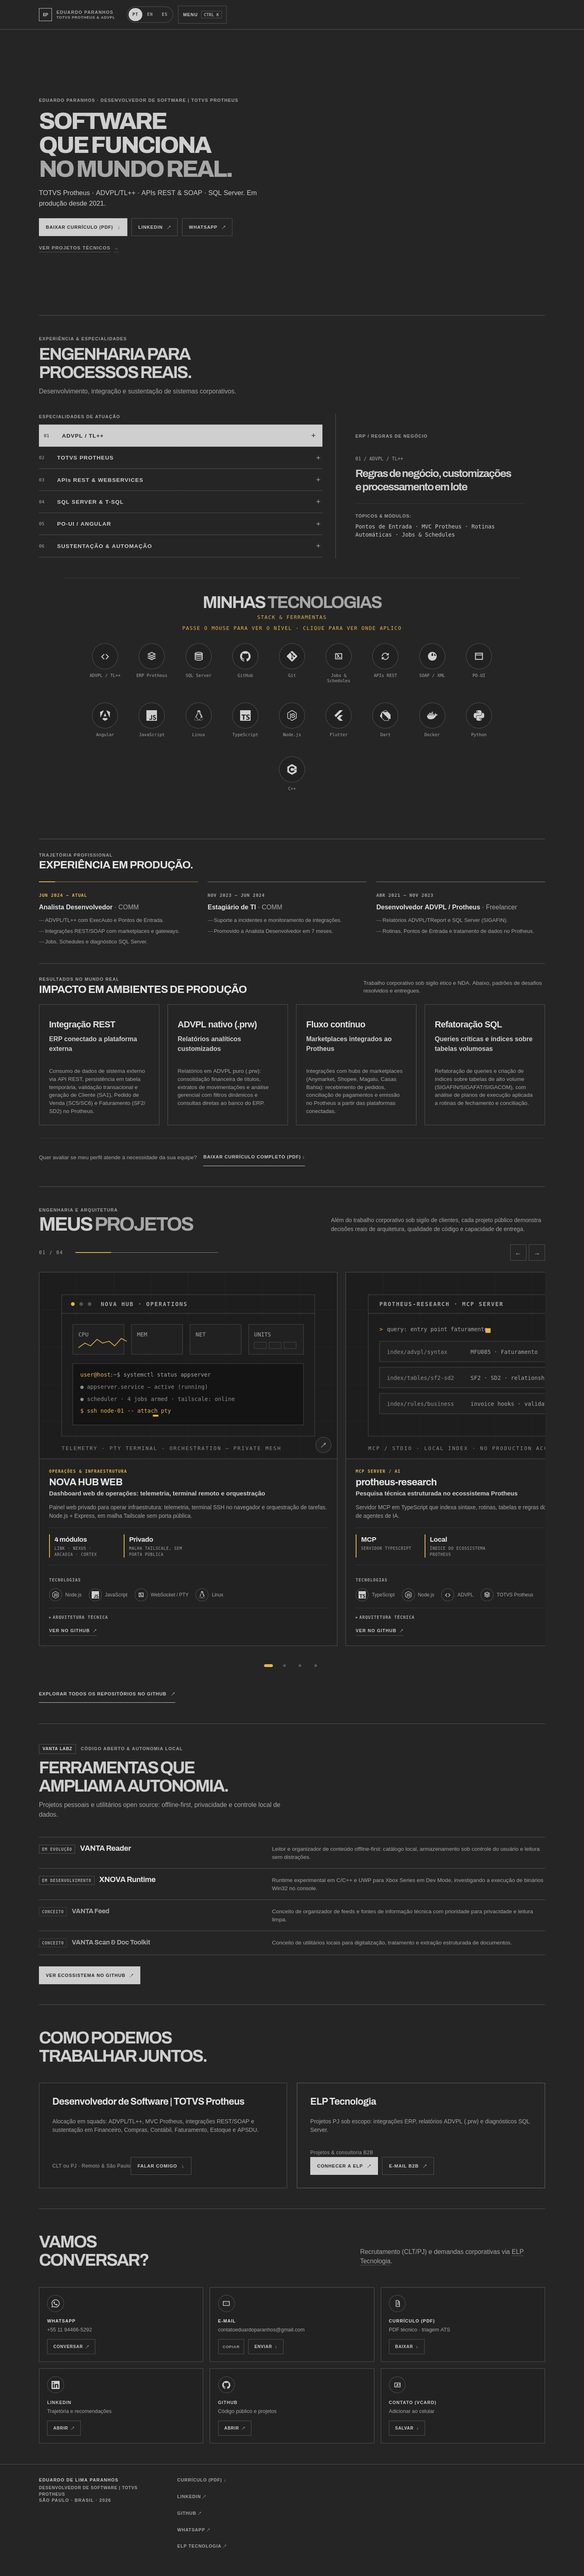
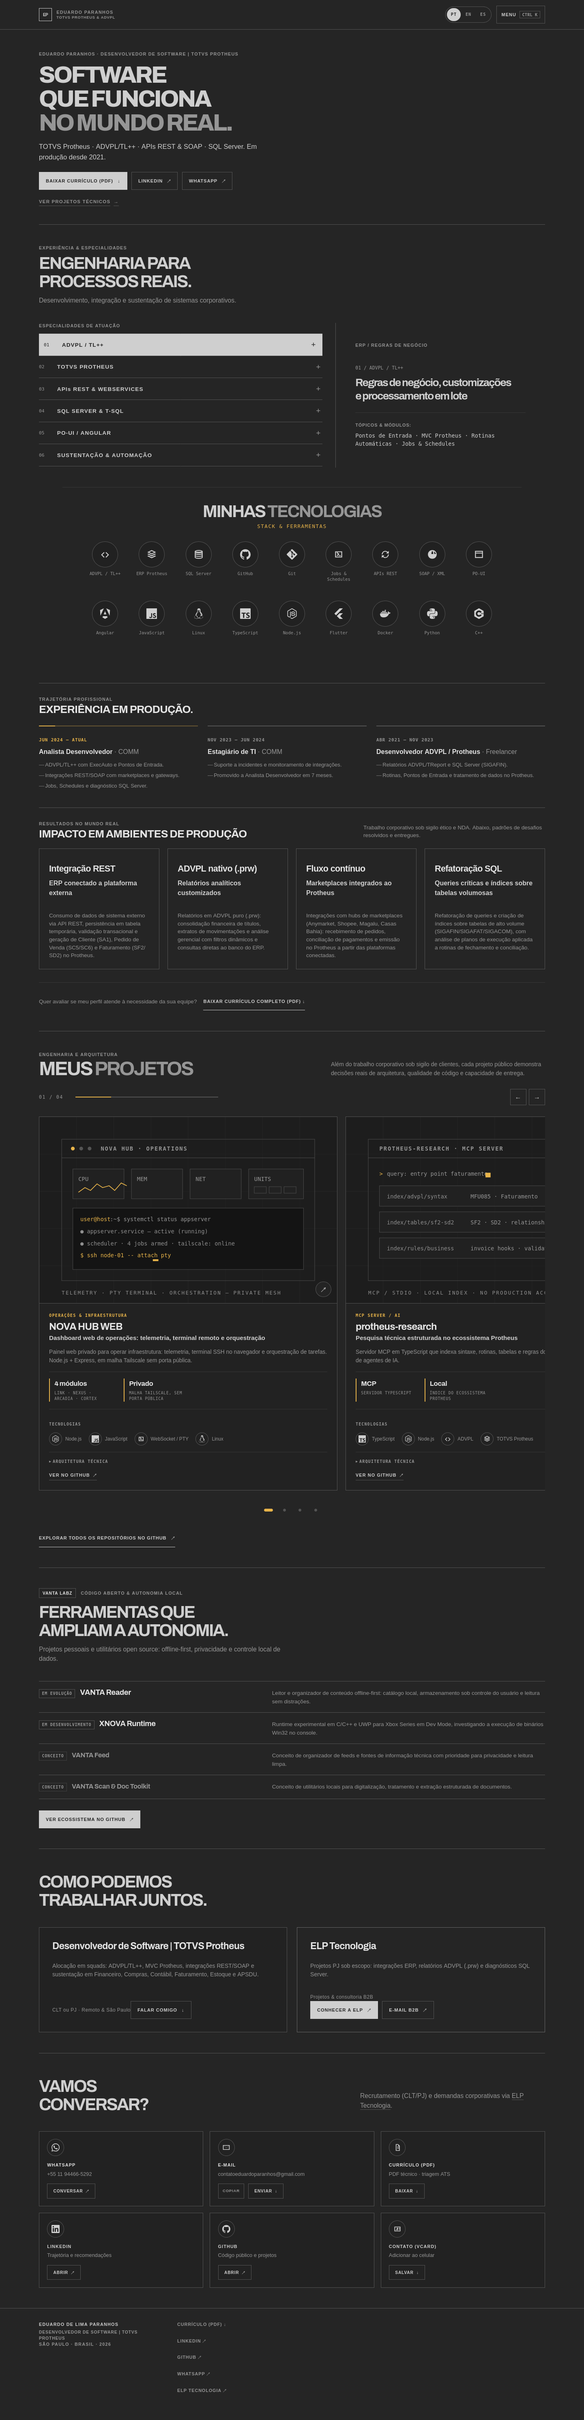
style(ux): darker secondary grey, compact hero spacing, right-aligned header actions
- --quiet (#a7a7a7 → #969696, ~10% darker) across the site; AA contrast kept (5.18:1 on ink)
- Hero vertical rhythm compacted (min-height 44rem → 30rem); section spacing tightened
- Header actions (lang switch + menu) pushed to the right edge as before
- Removed tech stack hint line; removed Dart from the stack
- Tech stack test made deterministic (reveal before click)

diff --git a/src/data/i18n.ts b/src/data/i18n.ts
@@ -95,7 +95,6 @@ export interface SiteContent {
     headingA: string;
     headingB: string;
     subtitle: string;
-    hint: string;
     levels: { advanced: string; intermediate: string; basic: string };
     usesLabel: string;
     uses: Record<string, readonly string[]>;
@@ -350,7 +349,6 @@ export const content: Record<Lang, SiteContent> = {
       headingA: 'MINHAS',
       headingB: 'TECNOLOGIAS',
       subtitle: 'Stack & ferramentas',
-      hint: 'Passe o mouse para ver o nível · clique para ver onde aplico',
       levels: { advanced: 'Avançado', intermediate: 'Intermediário', basic: 'Básico' },
       usesLabel: 'Onde aplico',
       uses: {
@@ -369,7 +367,6 @@ export const content: Record<Lang, SiteContent> = {
         typescript: ['protheus-research · servidor MCP', 'Tipagem em ferramentas internas'],
         nodejs: ['nova-hub · API Express', 'protheus-research · runtime MCP'],
         flutter: ['Protótipos multiplataforma (NOVA Hub V4)'],
-        dart: ['Protótipos multiplataforma (NOVA Hub V4)'],
         docker: ['Ambientes locais de desenvolvimento'],
         python: ['Scripts de automação e análise de dados'],
         cpp: ['Estudos de runtime e baixo nível (XNOVA)'],
@@ -684,7 +681,6 @@ export const content: Record<Lang, SiteContent> = {
       headingA: 'MY',
       headingB: 'TECHNOLOGIES',
       subtitle: 'Stack & tools',
-      hint: 'Hover to see the level · click to see where I apply it',
       levels: { advanced: 'Advanced', intermediate: 'Intermediate', basic: 'Basic' },
       usesLabel: 'Where I apply it',
       uses: {
@@ -703,7 +699,6 @@ export const content: Record<Lang, SiteContent> = {
         typescript: ['protheus-research · MCP server', 'Typing in internal tools'],
         nodejs: ['nova-hub · Express API', 'protheus-research · MCP runtime'],
         flutter: ['Cross-platform prototypes (NOVA Hub V4)'],
-        dart: ['Cross-platform prototypes (NOVA Hub V4)'],
         docker: ['Local development environments'],
         python: ['Automation scripts and data analysis'],
         cpp: ['Runtime and low-level studies (XNOVA)'],
@@ -1018,7 +1013,6 @@ export const content: Record<Lang, SiteContent> = {
       headingA: 'MIS',
       headingB: 'TECNOLOGÍAS',
       subtitle: 'Stack y herramientas',
-      hint: 'Pasa el cursor para ver el nivel · haz clic para ver dónde lo aplico',
       levels: { advanced: 'Avanzado', intermediate: 'Intermedio', basic: 'Básico' },
       usesLabel: 'Dónde lo aplico',
       uses: {
@@ -1037,7 +1031,6 @@ export const content: Record<Lang, SiteContent> = {
         typescript: ['protheus-research · servidor MCP', 'Tipado en herramientas internas'],
         nodejs: ['nova-hub · API Express', 'protheus-research · runtime MCP'],
         flutter: ['Prototipos multiplataforma (NOVA Hub V4)'],
-        dart: ['Prototipos multiplataforma (NOVA Hub V4)'],
         docker: ['Entornos locales de desarrollo'],
         python: ['Scripts de automatización y análisis de datos'],
         cpp: ['Estudios de runtime y bajo nivel (XNOVA)'],

diff --git a/src/styles/global.css b/src/styles/global.css
@@ -4,7 +4,7 @@
   --paper: #cfcfcf;
   --muted: #7d7d7d;
   --line: #545454;
-  --quiet: #a7a7a7;
+  --quiet: #969696;
   --bright: #e4e4e4;
   --accent: #e8b44a;
   --accent-soft: rgba(232, 180, 74, 0.35);
@@ -277,17 +277,17 @@ kbd {
 
 .hero {
   display: flex;
-  min-height: min(44rem, calc(100svh - 4.5rem));
+  min-height: min(30rem, calc(76svh - 4.5rem));
   flex-direction: column;
   justify-content: center;
-  padding-top: clamp(2rem, 4.5vw, 3.5rem);
-  padding-bottom: clamp(1.8rem, 3.5vw, 2.75rem);
+  padding-top: clamp(1.25rem, 2.5vw, 2rem);
+  padding-bottom: clamp(1rem, 2vw, 1.5rem);
 }
 
 .hero-grid {
   display: grid;
   margin-block: auto;
-  padding-block: clamp(1rem, 2vw, 2rem);
+  padding-block: clamp(0.5rem, 1vw, 1rem);
   gap: 1.5rem;
   grid-template-columns: minmax(0, 1fr);
   align-items: start;
@@ -823,6 +823,7 @@ html[data-audience='exploring'] [data-audience-focus~='exploring'] {
 
 .header-actions {
   display: flex;
+  margin-left: auto;
   align-items: center;
   gap: 0.5rem;
 }

diff --git a/src/data/site.ts b/src/data/site.ts
@@ -126,7 +126,6 @@ export const techStackItems: readonly TechStackItem[] = [
   { id: 'typescript', icon: 'typescript', name: 'TypeScript', level: 'basic' },
   { id: 'nodejs', icon: 'nodedotjs', name: 'Node.js', level: 'basic' },
   { id: 'flutter', icon: 'flutter', name: 'Flutter', level: 'basic' },
-  { id: 'dart', icon: 'dart', name: 'Dart', level: 'basic' },
   { id: 'docker', icon: 'docker', name: 'Docker', level: 'basic' },
   { id: 'python', icon: 'python', name: 'Python', level: 'basic' },
   { id: 'cpp', icon: 'cpp', name: 'C++', level: 'basic' },

diff --git a/tests/browser/gateway.spec.ts b/tests/browser/gateway.spec.ts
@@ -112,6 +112,7 @@ test('projects carousel exposes counter, dots and arrow navigation', async ({ pa
 
 test('tech stack reveals level and usage detail on interaction', async ({ page }) => {
   await gotoPage(page);
+  await revealWholePage(page);
   const firstTech = page.locator('[data-tech-button]').first();
   const detail = page.locator('[data-tech-detail]');
 
